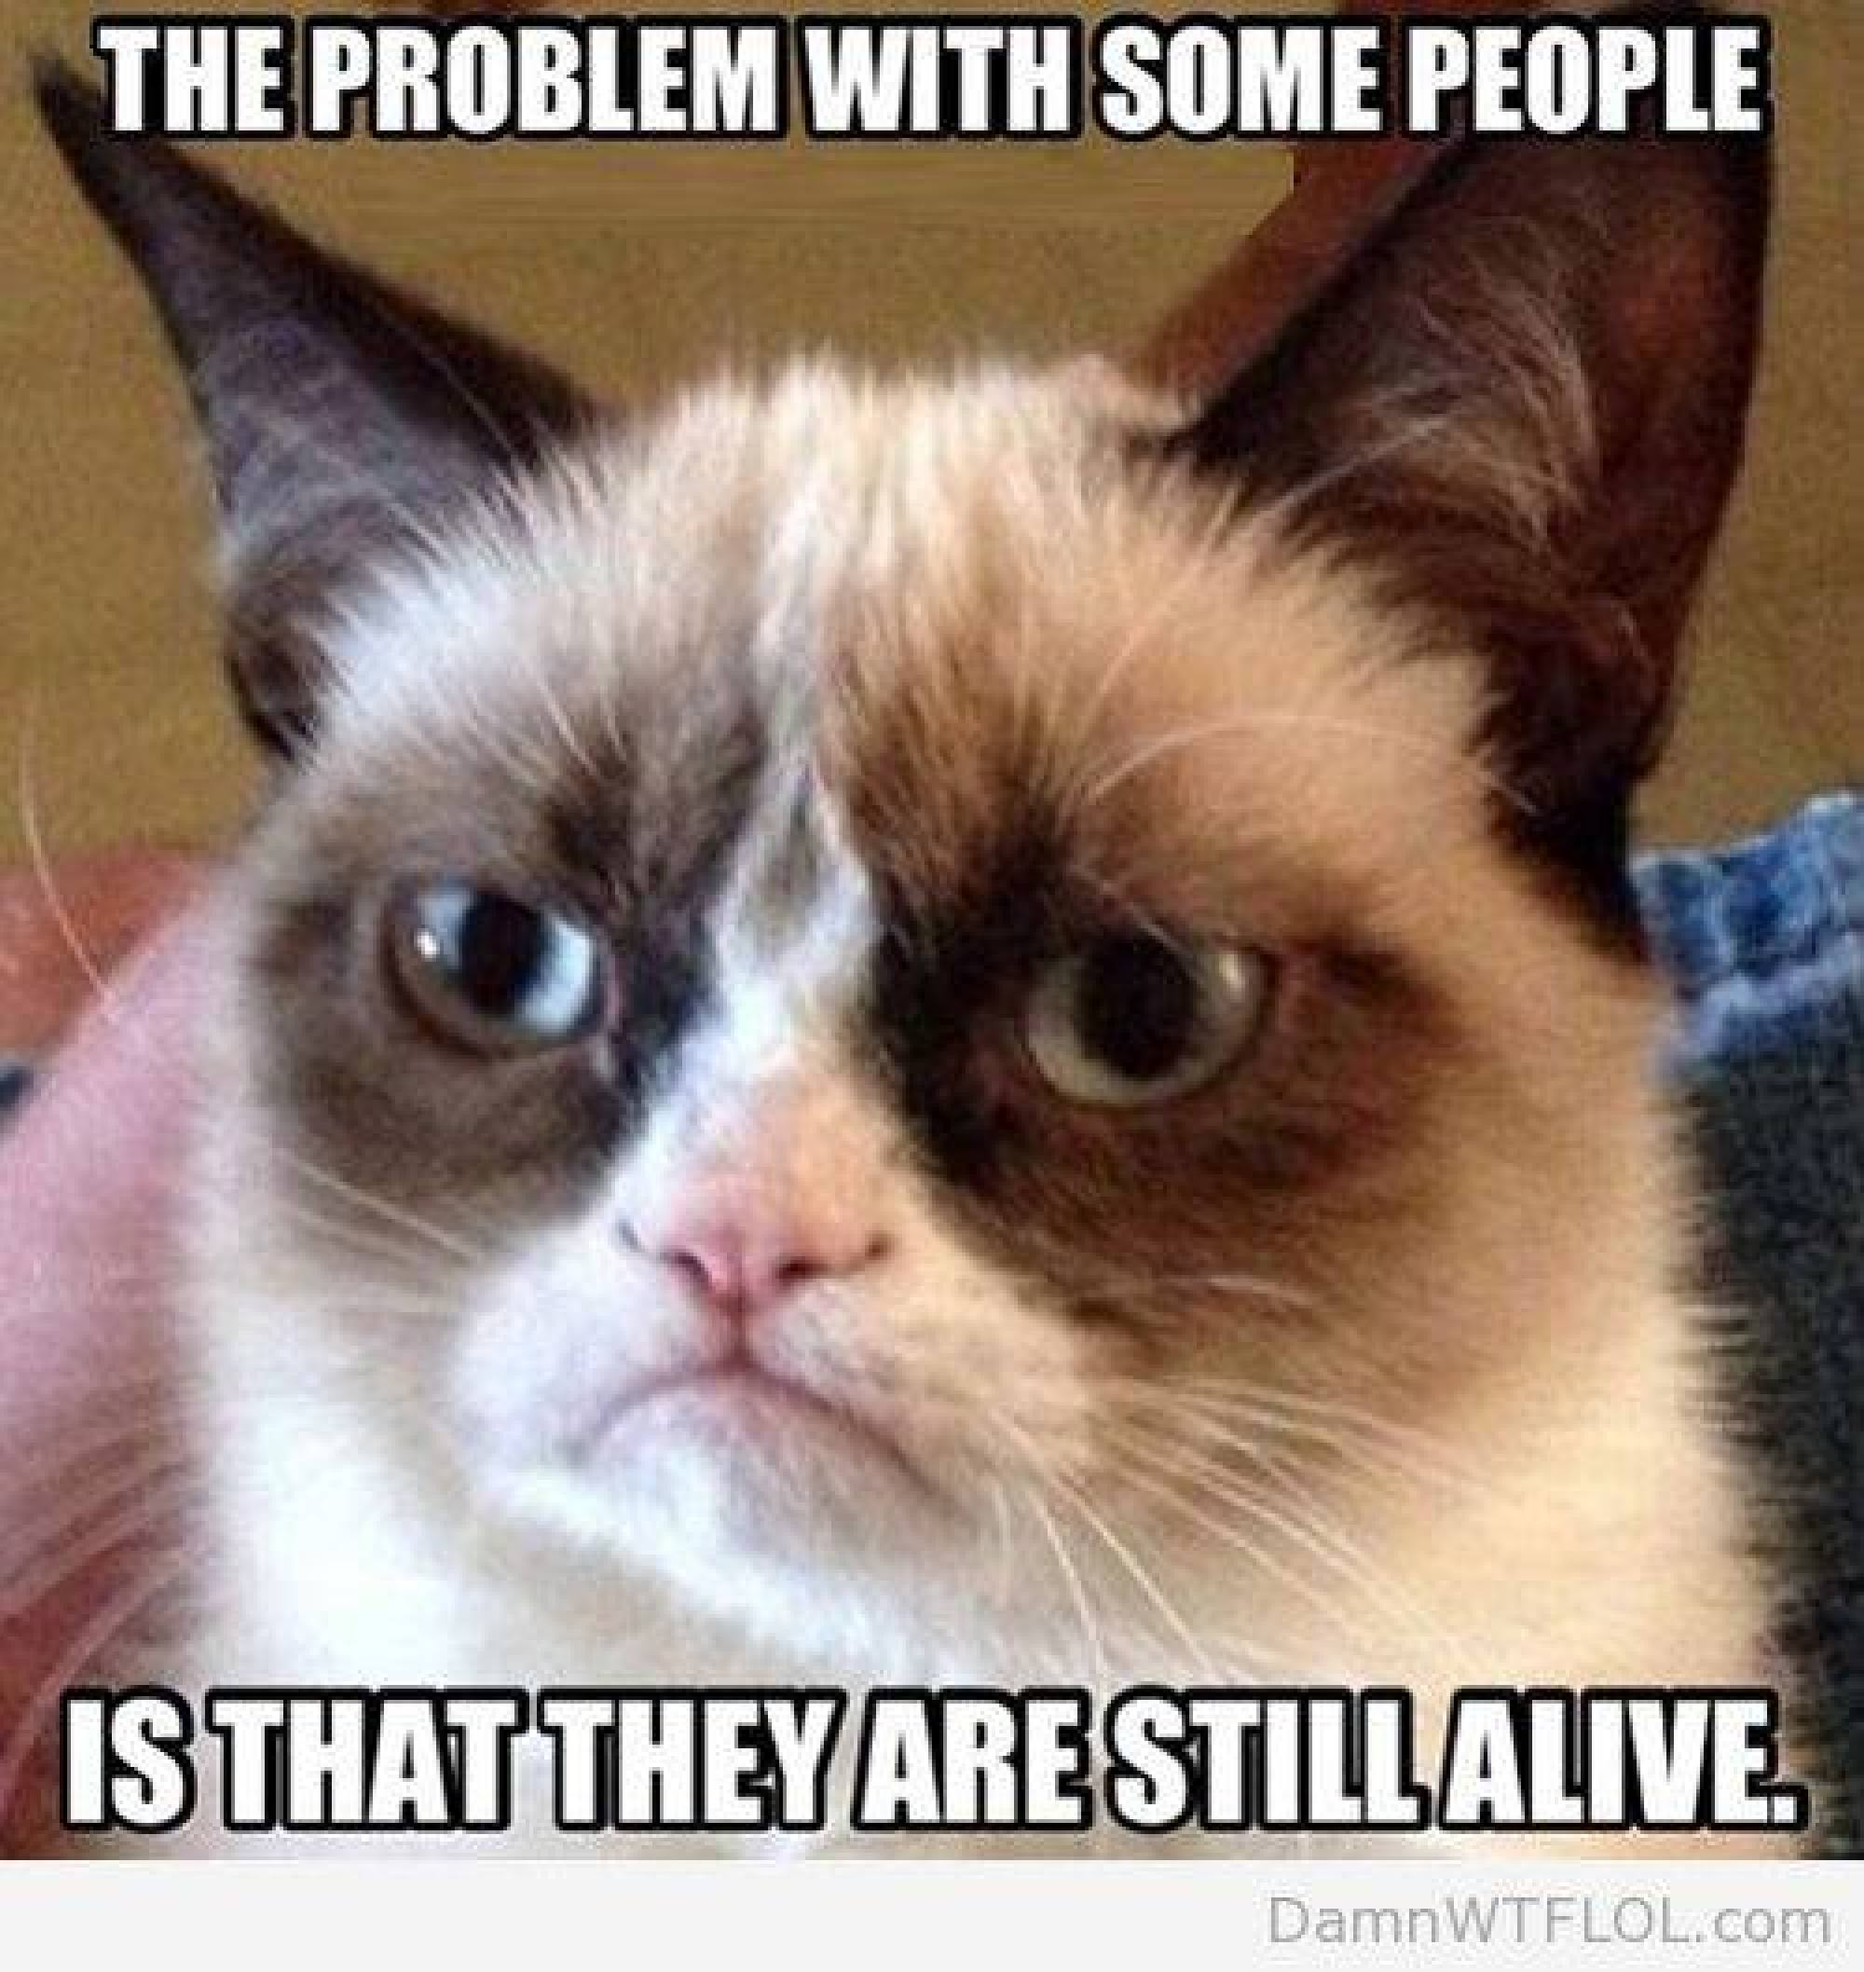
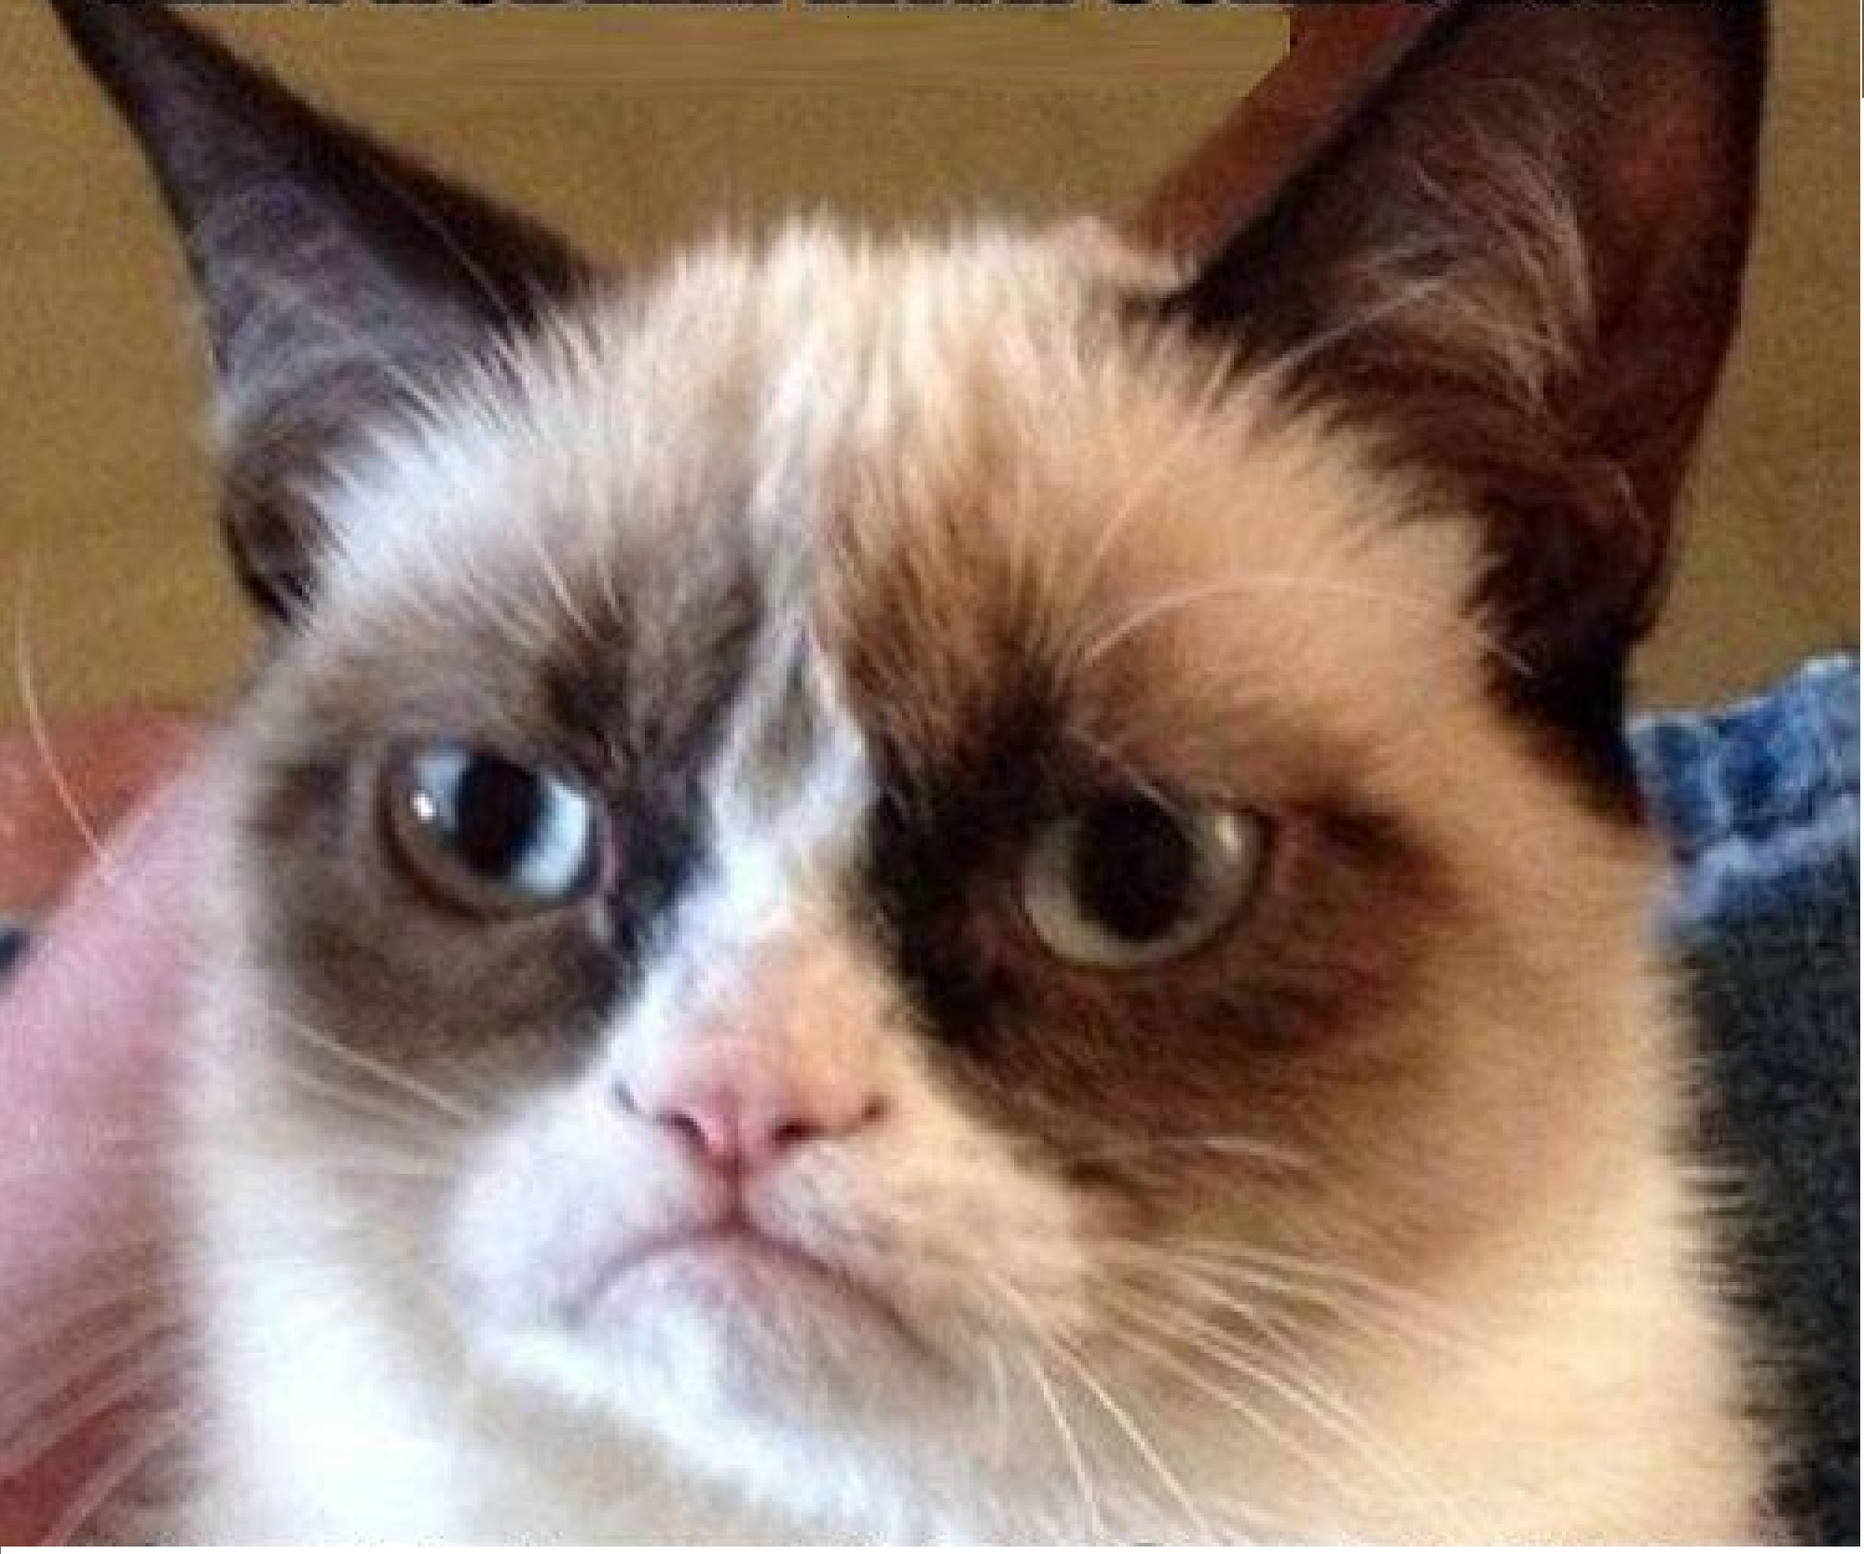
Javascript changes to make mouse-over on anchors do stuff

diff --git a/public/html/herokuHowTo.html b/public/html/herokuHowTo.html
@@ -1,13 +1,14 @@
-<div class = "imgMouseOver1"><img src = "/public/img/Dancing_baby.gif"></div>
+<div class = "imgMouseOver1 loadhidden"><img src = "/public/img/Dancing_baby.gif"></div>
+<div class = "imgMouseOver2 loadhidden"><img src = "/public/img/grumpy_cat.jpg"></div>
 <h3>Heroku!  The geocities of this decade?</h3>
 <br>
 <p>Back in nineteen diggity 5 (or 1995) GeoCities was a thing.  
-This was the place for anyone who had downloaded a handful of gifs to show the world those gifs.  
-All that was required was knowledge of the marquee HTML tag and FTP.  Yahoo! closed GeoCities 
-in 2009, and the internet evolved from <a id="baby">dancing baby gifs</a> to selfies and <a id ="cat">cat pictures</a>.
-And thus, the future is here.</p>
-<p>Some people may still desire to have their own website.  Afterall, what's the point of 
-owning many stupid domain names if they don't go anywhere?  This guide will hopefully walk 
-you through using some of the cool, hip, new technologies to create a free 
-web app connected to your very own database.</p>
+	This was the place for anyone who had downloaded a handful of gifs to show the world those gifs.  
+	All that was required was knowledge of the marquee HTML tag and FTP.  Yahoo! closed GeoCities 
+	in 2009, and the internet evolved from <a id="baby">dancing baby gifs</a> to selfies and <a id ="cat">cat pictures</a>.
+	And thus, the future is here.</p>
+<p>Some people may still want to carve out their own little piece of the interwebz.  
+	Afterall, what's the point of owning many stupid domain names if they don't go 
+	anywhere?  This guide will hopefully walk you through using some of the cool, hip, 
+	new technologies to create a free web app connected to your very own database.</p>
 <br>

diff --git a/public/js/mainJs.js b/public/js/mainJs.js
@@ -28,13 +28,15 @@ var loadHashPage = function(){
         hashURI = "/public/html/"+location.hash.substr(1)+".html";
     }
     $(".contents").load(hashURI, function(){
+        var theImage = ".imgMouseOver1";
         if(location.hash==="#herokuHowTo"){
             $(".contents a").hover(function(e){
+                if(e.target.id === "cat") theImage = ".imgMouseOver2";
                 var x = e.clientX,
                     y = e.clientY;
-                $('.imgMouseOver1').css({top: y, left : x}).show();
+                $(theImage).css({top: y, left : x}).show();
             }, function(){
-                $('.imgMouseOver1').hide();
+                $(theImage).hide();
             });
         }
     });

diff --git a/public/css/mainStyle.css b/public/css/mainStyle.css
@@ -36,7 +36,7 @@ body {
     width: 50px;
     border-radius: 5px;
 }
-.imgMouseOver1 {
+.loadHidden {
     position: absolute;
     display: none;
 }
